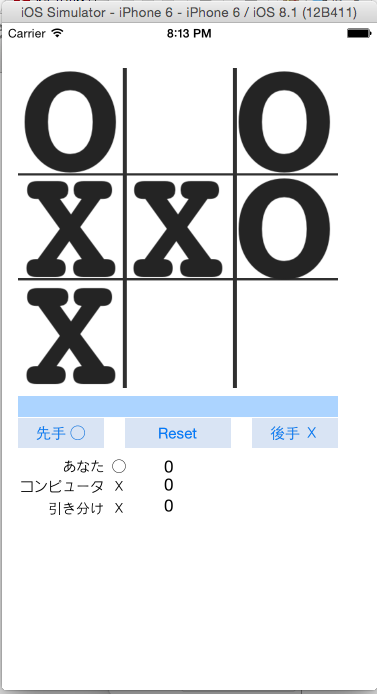
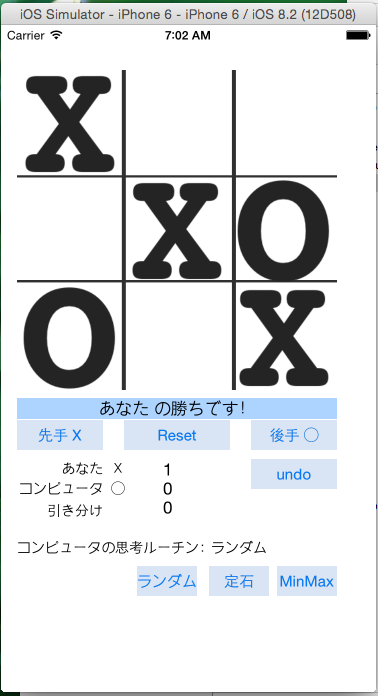
Update README.md

diff --git a/README.md b/README.md
@@ -2,5 +2,27 @@
 
 screnncast https://www.youtube.com/watch?v=LkYpoRj-7hA を見ながら作成したマルバツゲームです。
 
-![scrennshot-2015-03-06.png](scrennshot-2015-03-06.png)
+![Screenshot 1](scrennshot-2015-03-06.png)
 
+# 概要
+人間とコンピュータの対戦です。  
+
+先手X　　　人間が先手を打つます。  
+Reset　　　ゲームをリセットします。(盤面をクリアします)  
+後手◯　　　コンピュータが先手を打ちます。  
+
+対戦成績  
+　　あなた　　　　人間の勝ちの回数。  
+　　コンピュータ　コンピュータの勝ちの回数。  
+　　引き分け　　　引き分けの回数  
+
+undo　　打ち手を戻します。  
+
+コンピュータの思考ルーチン  
+　　ランダム　　開いているマスにランダムに打ちます。  
+　　蹄跡　　　　定石をピログラムコードで作成してあり、それに従って打ちます。  
+　　MinMax　　ミニマックス法で打ち手を評価して、最善手を選んで打ちます。  
+
+# TODO
+- テストコードを書くこと。
+- 画面のデザイン。
